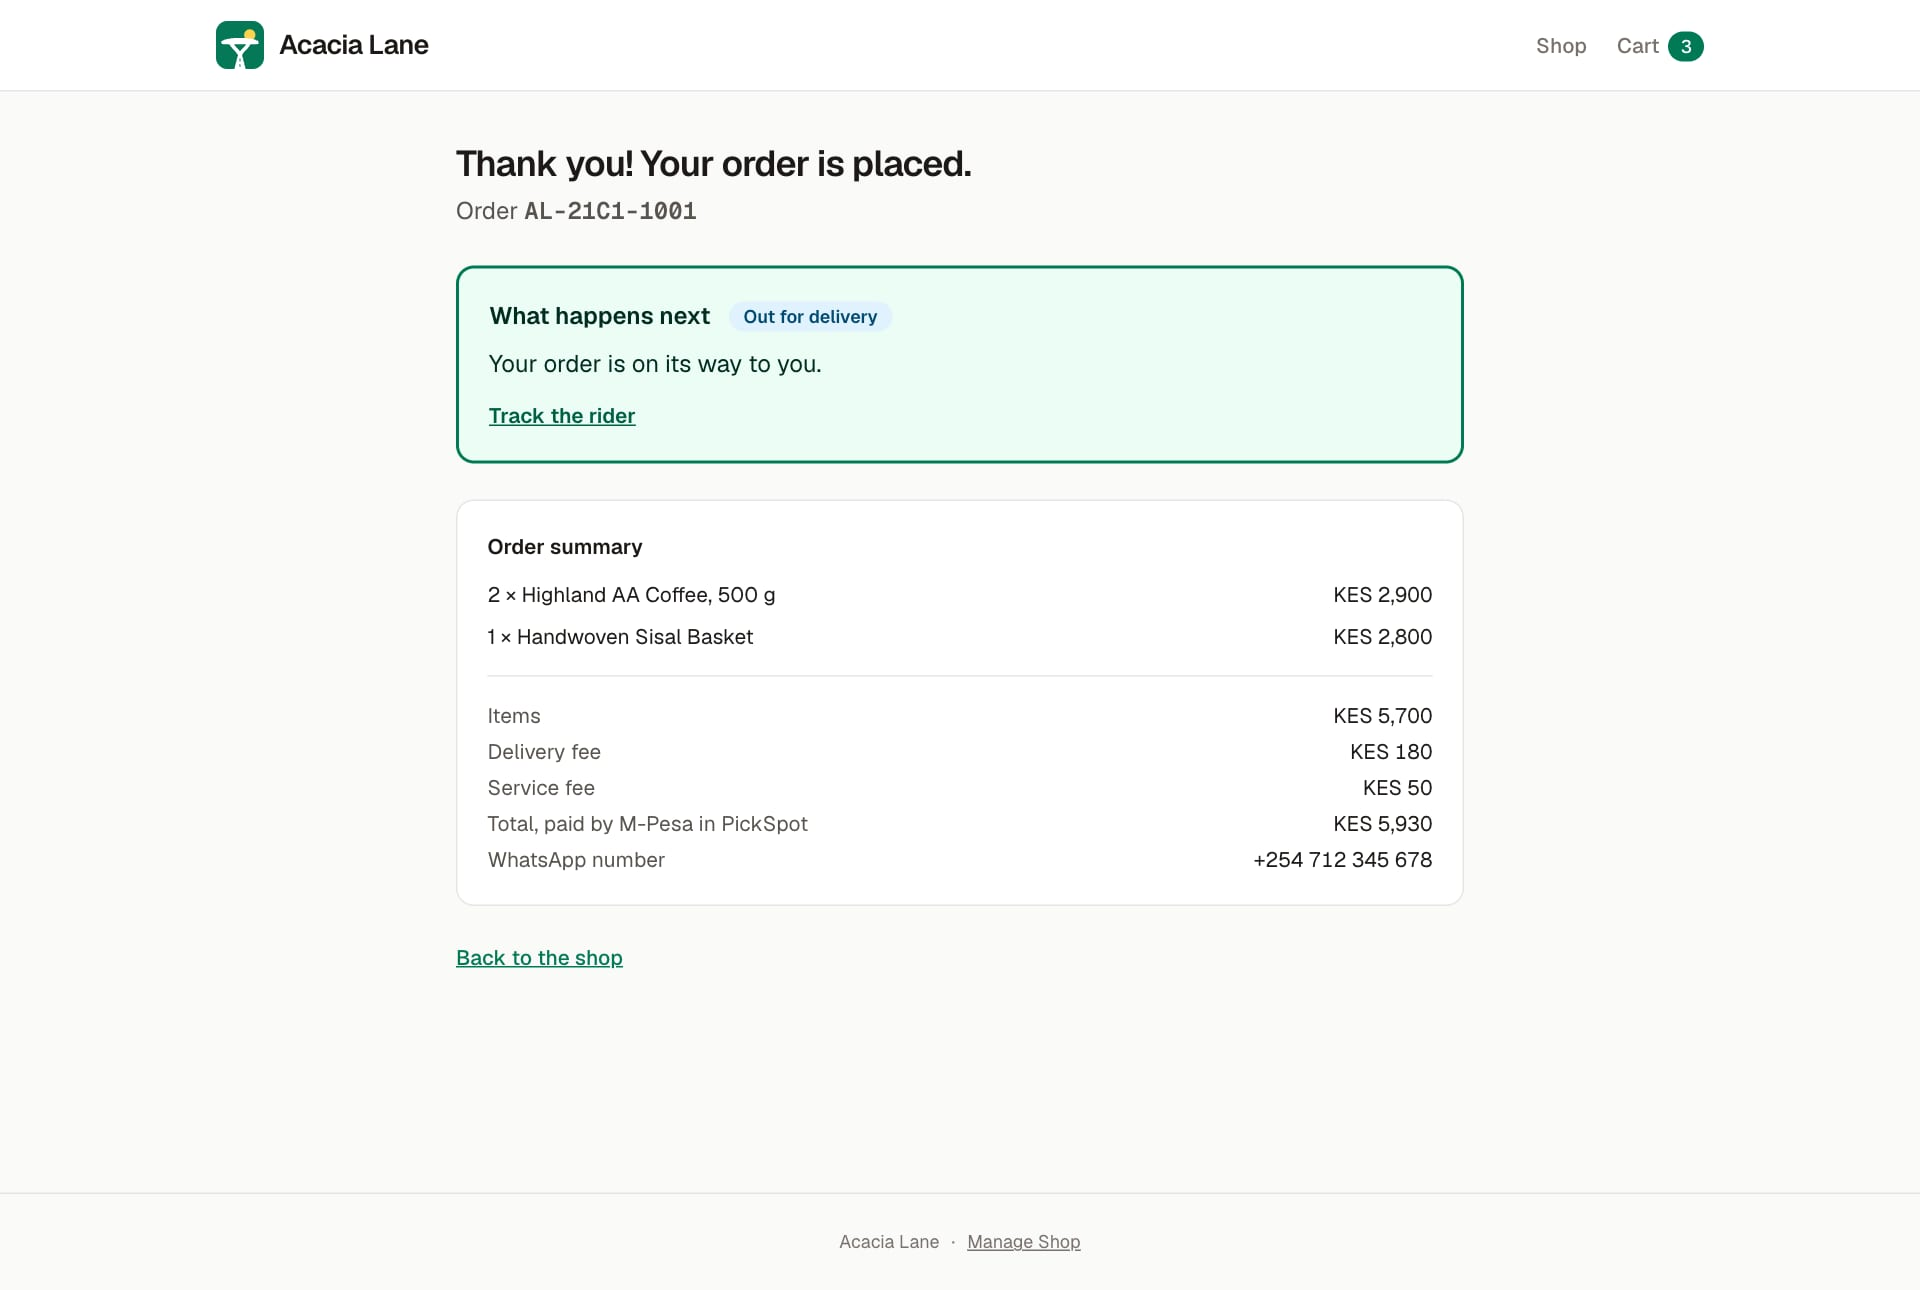
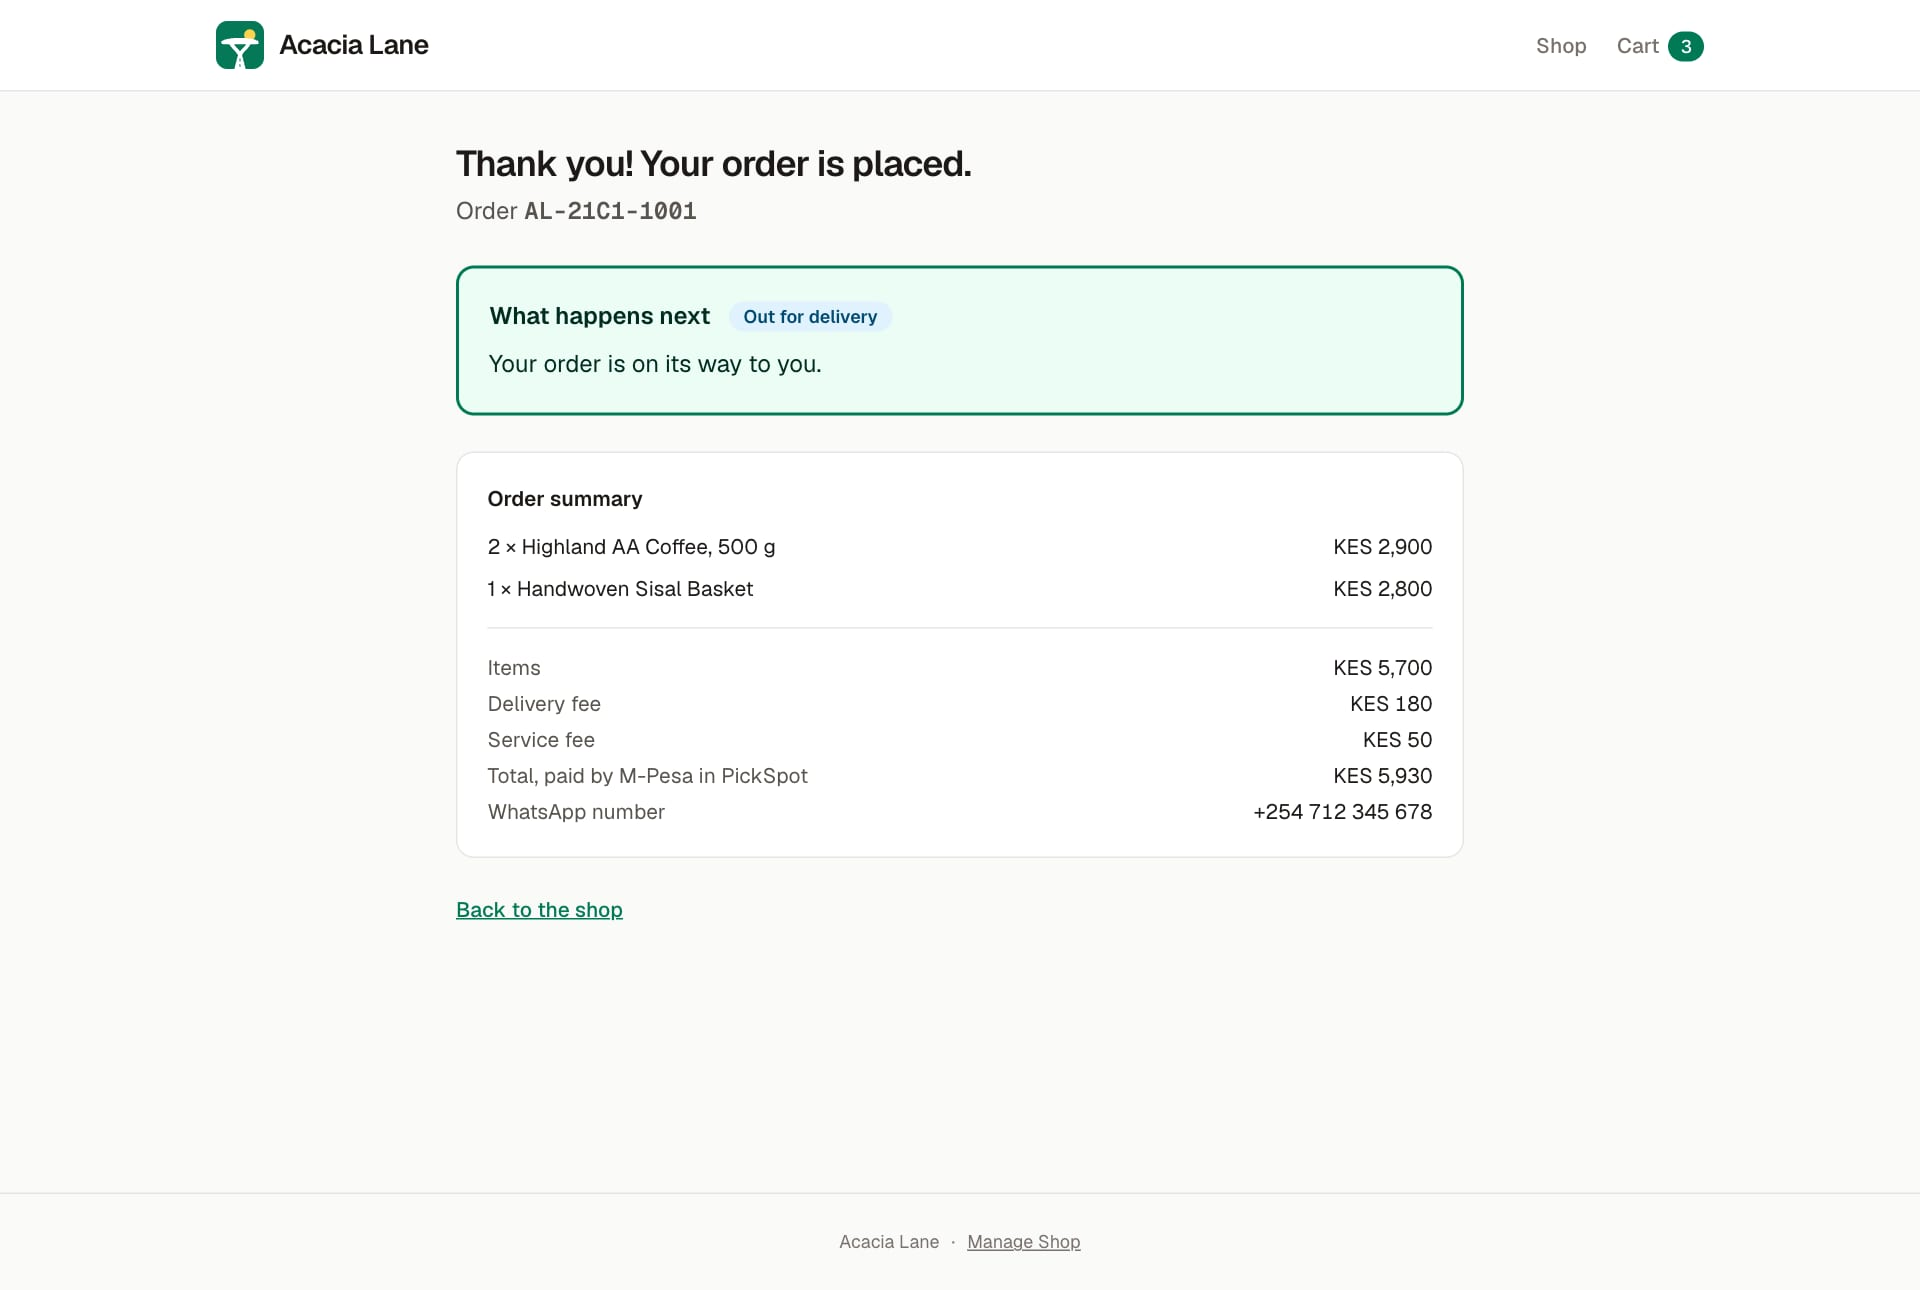
Order page: copy the WhatsApp link instead of opening it, no rider link
- While the order waits for the customer, "No message? Open the link here"
  becomes "No message? Copy the link and share it with your customer." with a
  Copy the link button that says "Copied" once done. Where the browser does
  not allow copying, the link is shown to copy by hand.
- The order page no longer shows "Track the rider". The owner's order page
  keeps "Follow the rider on the map".
- The README screenshot of the order page and the guides are updated.

Closes #8

diff --git a/app/orders/[reference]/page.tsx b/app/orders/[reference]/page.tsx
@@ -2,6 +2,7 @@ import Link from "next/link";
 import { notFound } from "next/navigation";
 import { connection } from "next/server";
 import { AutoRefresh } from "@/components/auto-refresh";
+import { CopyLink } from "@/components/copy-link";
 import { StatusBadge } from "@/components/status-badge";
 import { findOrder } from "@/lib/db";
 import { kes } from "@/lib/format";
@@ -63,25 +64,13 @@ export default async function OrderConfirmation({
         </div>
         <p className="mt-2 text-emerald-950">{NEXT_STEP[order.status]}</p>
         {order.status === "AWAITING_RECIPIENT" && pickspot?.claim?.claimUrl && (
-          <p className="mt-3 text-sm">
-            Sent to <strong>{contact}</strong>. No message?{" "}
-            <a
-              href={pickspot.claim.claimUrl}
-              className="font-semibold text-emerald-800 underline"
-            >
-              Open the link here
-            </a>
-          </p>
-        )}
-        {pickspot?.dispatch?.trackingUrl && (
-          <p className="mt-3 text-sm">
-            <a
-              href={pickspot.dispatch.trackingUrl}
-              className="font-semibold text-emerald-800 underline"
-            >
-              Track the rider
-            </a>
-          </p>
+          <div className="mt-3 text-sm">
+            <p>
+              Sent to <strong>{contact}</strong>. No message? Copy the link and
+              share it with your customer.
+            </p>
+            <CopyLink url={pickspot.claim.claimUrl} />
+          </div>
         )}
       </section>
 

diff --git a/components/copy-link.tsx b/components/copy-link.tsx
@@ -1,0 +1,34 @@
+"use client";
+
+import { useState } from "react";
+
+// Copies `url`, and says so once it is copied. Where the browser does not
+// allow copying, it shows the link to copy by hand.
+export function CopyLink({ url }: { url: string }) {
+  const [state, setState] = useState<"ready" | "copied" | "blocked">("ready");
+  return (
+    <>
+      <button
+        type="button"
+        onClick={() =>
+          navigator.clipboard.writeText(url).then(
+            () => setState("copied"),
+            () => setState("blocked"),
+          )
+        }
+        className="mt-2 rounded-md border border-emerald-700 px-3 py-1.5 text-sm font-semibold text-emerald-800 transition-[transform,background-color] duration-150 ease-out hover:bg-emerald-100 active:scale-[0.97]"
+      >
+        {state === "copied" ? "Copied" : "Copy the link"}
+      </button>
+      {state === "blocked" && (
+        <input
+          readOnly
+          value={url}
+          aria-label="The link"
+          onFocus={(event) => event.target.select()}
+          className="mt-2 block w-full rounded-md border border-stone-300 bg-white px-3 py-2 font-mono text-xs"
+        />
+      )}
+    </>
+  );
+}

diff --git a/docs/pickspot-integration.md b/docs/pickspot-integration.md
@@ -157,11 +157,11 @@ latest one on the order and uses these parts of it:
 | `status` | The order's badge and what the customer is told to do next |
 | `updatedAt` | Telling new from old |
 | `pricing` | The delivery fee, the service fee and the total. Unknown until the customer has given an address |
-| `claim.claimUrl` | The customer's link, shown on their order page in case the WhatsApp message does not arrive |
+| `claim.claimUrl` | The customer's link. The order page has a **Copy the link** button for it, to share in case the WhatsApp message does not arrive |
 | `claim.whatsapp` | Whether the WhatsApp message is on its way, sent, or could not be sent |
 | `parcelCode` | The PickSpot parcel number shown to the owner |
 | `dispatch.scheduledFor`, `dispatch.courier.name` | When the rider is due and who it is |
-| `dispatch.trackingUrl` | The "follow the rider" link |
+| `dispatch.trackingUrl` | The "Follow the rider on the map" link on the owner's order page |
 | `kind`, `rawStatus`, `orderId`, `claimId` | Shown only under "Technical details" |
 
 An order starts as a claim (`kind: CLAIM`): PickSpot is waiting for the

diff --git a/docs/getting-started.md b/docs/getting-started.md
@@ -77,8 +77,9 @@ next to the order number changes with it.
 ### 3. See it from the customer's side
 
 Press **See what the customer sees** at the top of the order. The customer's
-page has followed along: it shows the same status, the fees and the total,
-and a link to follow the rider once one is on the way.
+page has followed along: it shows the same status, the fees and the total.
+While the order waits for the customer, it has a **Copy the link** button, so
+the WhatsApp link can be shared if the message did not arrive.
 
 ### 4. Look at Activity
 

diff --git a/docs/how-it-works.md b/docs/how-it-works.md
@@ -274,6 +274,7 @@ again at 1001 and get somebody's old order back.
 | `checkout-form.tsx` | The checkout form |
 | `auto-refresh.tsx` | Keeps an open page current |
 | `status-badge.tsx` | The coloured status label |
+| `copy-link.tsx` | The "Copy the link" button on the order page |
 | `admin-forms.tsx` | The owner's forms and buttons |
 | `admin-tabs.tsx` | The owner's menu, with the page being shown underlined |
 | `no-webhook-notice.tsx` | The "Live updates are off" notice |
